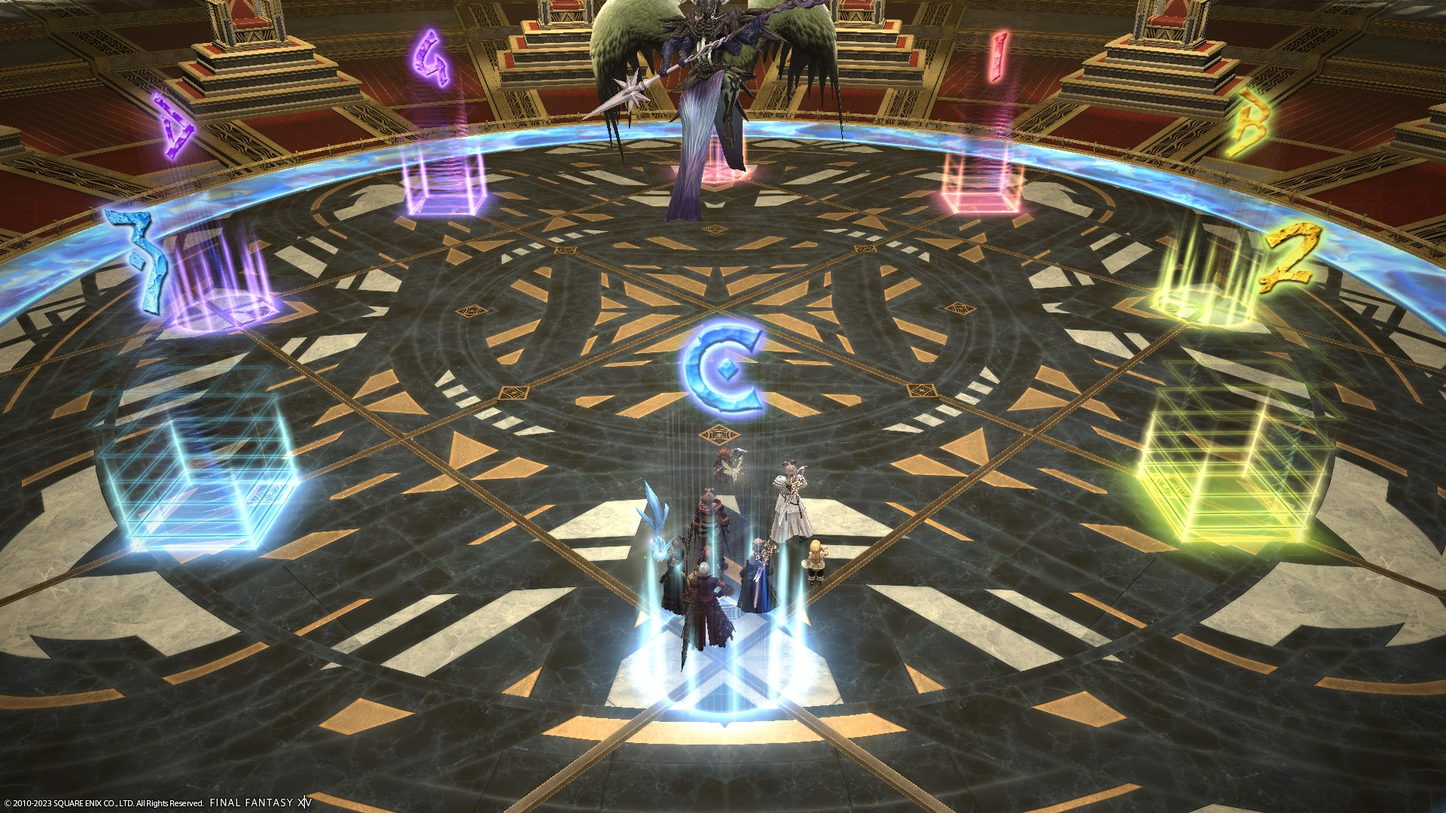
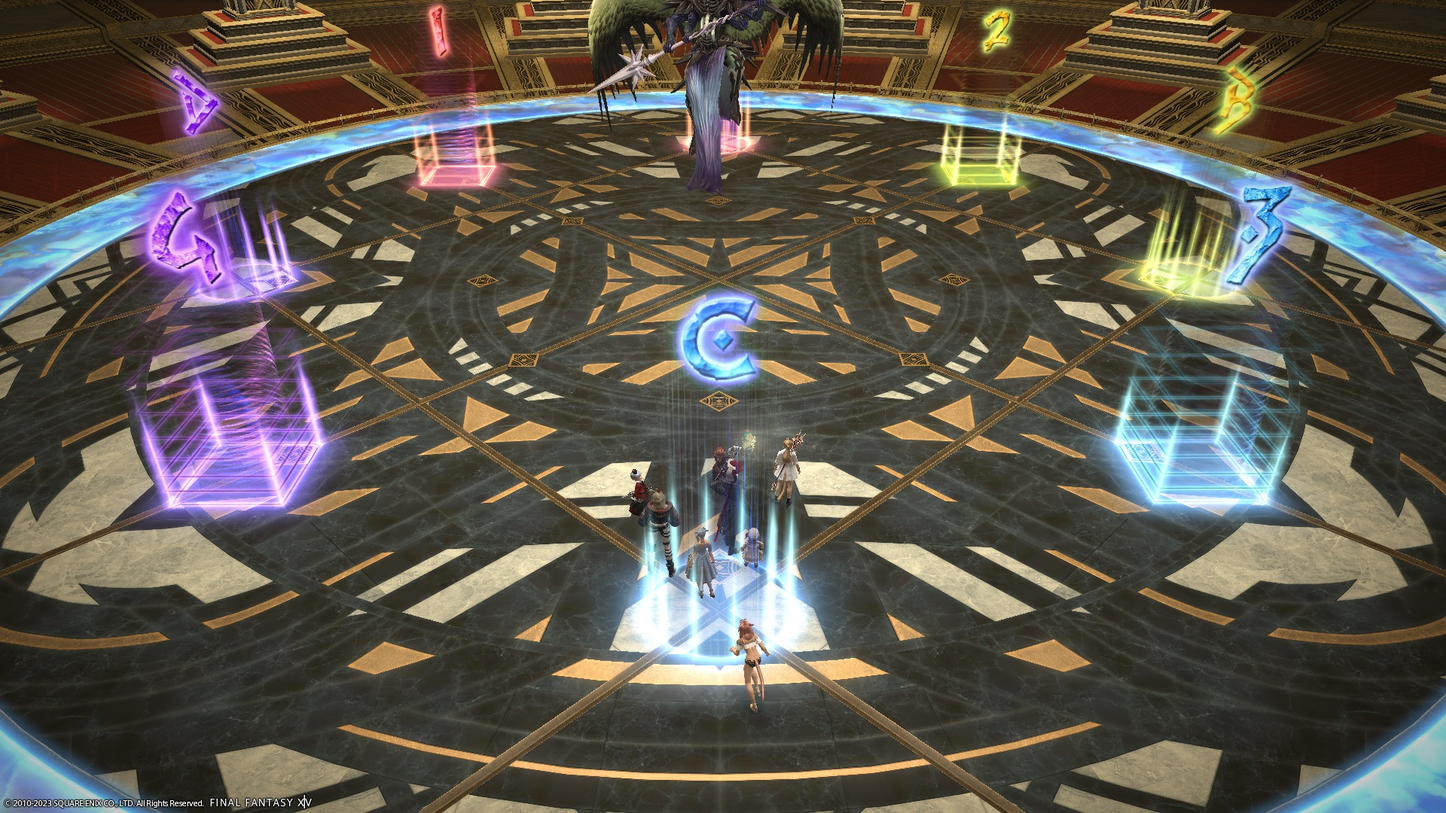
Add markers

diff --git a/6.0_endwalker/savage_raids/p11s/README.md b/6.0_endwalker/savage_raids/p11s/README.md
@@ -13,12 +13,24 @@ permalink: /6.0_endwalker/savage_raids/p11s/
 
 ## Markers
 
+The colours indicate the pairs positions (MT/D3 are on red, etc).
+
 ![](images/markers.jpg)
 <details markdown=block>
 <summary>XIVLauncher WaymarkPresetPlugin positions</summary>
 
 ```json
-{"Name":"P11S","MapID":941,"A":{"X":100.0,"Y":0.0,"Z":86.0,"ID":0,"Active":true},"B":{"X":114.0,"Y":0.0,"Z":100.0,"ID":1,"Active":true},"C":{"X":100.0,"Y":0.0,"Z":114.0,"ID":2,"Active":true},"D":{"X":86.0,"Y":0.0,"Z":100.0,"ID":3,"Active":true},"One":{"X":109.9,"Y":0.0,"Z":90.1,"ID":4,"Active":true},"Two":{"X":109.9,"Y":0.0,"Z":109.9,"ID":5,"Active":true},"Three":{"X":90.1,"Y":0.0,"Z":109.9,"ID":6,"Active":true},"Four":{"X":90.1,"Y":0.0,"Z":90.1,"ID":7,"Active":true}}
+{"Name":"P11S","MapID":941,"A":{"X":100.0,"Y":0.0,"Z":86.0,"ID":0,"Active":true},"B":{"X":114.0,"Y":0.0,"Z":100.0,"ID":1,"Active":true},"C":{"X":100.0,"Y":0.0,"Z":114.0,"ID":2,"Active":true},"D":{"X":86.0,"Y":0.0,"Z":100.0,"ID":3,"Active":true},"One":{"X":90.101,"Y":0.0,"Z":90.101,"ID":4,"Active":true},"Two":{"X":109.899,"Y":0.0,"Z":90.101,"ID":5,"Active":true},"Three":{"X":109.899,"Y":0.0,"Z":109.899,"ID":6,"Active":true},"Four":{"X":90.101,"Y":0.0,"Z":109.899,"ID":7,"Active":true}}
+```
+
+You may see the square markers rotated 90 degrees clockwise in Japanese parties.
+
+![](images/markers2.jpg)
+<details markdown=block>
+<summary>XIVLauncher WaymarkPresetPlugin positions</summary>
+
+```json
+{"Name":"P11S (JP)","MapID":941,"A":{"X":100.0,"Y":0.0,"Z":86.0,"ID":0,"Active":true},"B":{"X":114.0,"Y":0.0,"Z":100.0,"ID":1,"Active":true},"C":{"X":100.0,"Y":0.0,"Z":114.0,"ID":2,"Active":true},"D":{"X":86.0,"Y":0.0,"Z":100.0,"ID":3,"Active":true},"One":{"X":109.9,"Y":0.0,"Z":90.1,"ID":4,"Active":true},"Two":{"X":109.9,"Y":0.0,"Z":109.9,"ID":5,"Active":true},"Three":{"X":90.1,"Y":0.0,"Z":109.9,"ID":6,"Active":true},"Four":{"X":90.1,"Y":0.0,"Z":90.1,"ID":7,"Active":true}}
 ```
 
 </details>
